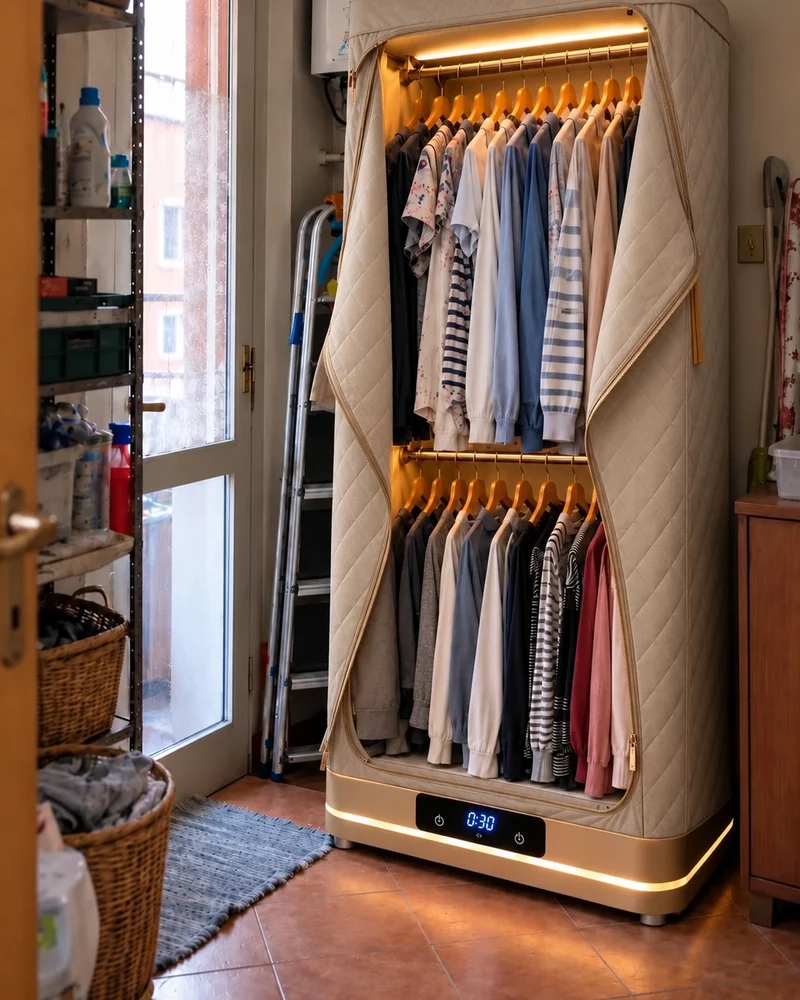
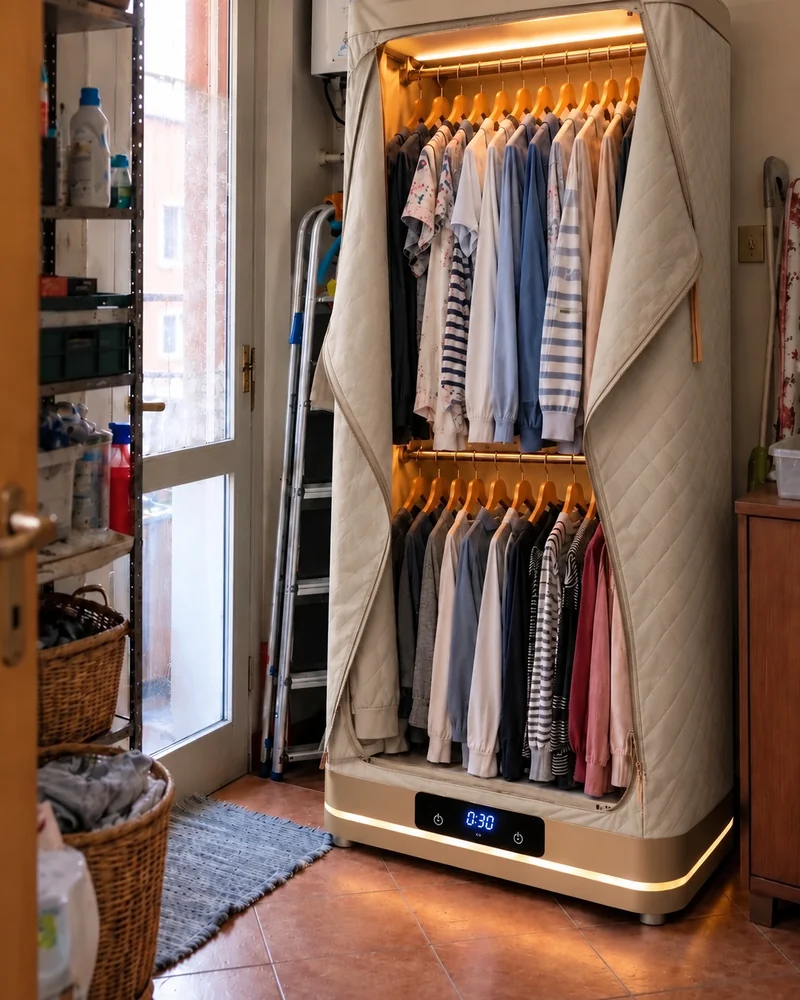
NUVARA e SALVEA: foto rifatte senza zoom, hero non piu' ritagliata
ChatGPT aveva rigenerato le scene ingrandendo il prodotto, che usciva dal
bordo: rifatte tutte e sedici con l'inquadratura bloccata su quella di ONYXA.
La hero e' il file quadrato dell'utente e ora e' 1000x1000, senza ritaglio;
le misure dichiarate negli <img> seguono il file (le miniature della
thank-you restano 88x88).

diff --git a/it/nuvara/landing.html b/it/nuvara/landing.html
@@ -61,7 +61,7 @@
  "@context": "https://schema.org",
  "@type": "Product",
  "name": "NUVARA™",
- "image": "https://nexofind.com/assets/img/products/nuvara/hero.webp?v=c3f60a7b",
+ "image": "https://nexofind.com/assets/img/products/nuvara/hero.webp?v=4fa03127",
  "description": "Asciuga, stira e igienizza il tuo bucato in soli 30 minuti. Dimentica le ore passate a stirare e goditi capi asciutti, stirati e subito pronti da indossare",
  "brand": {
   "@type": "Brand",
@@ -105,7 +105,7 @@ window.SITE_CONFIG = {
       </h1>
       <p class="trim-subtitle"><b>NUVARA</b> asciuga, stira e igienizza <b>fino a 30 kg di bucato in 30 minuti</b>, consumando solo 0,35 € di corrente per ogni ciclo.</p>
       <div class="trim-hero__image mobile-only">
-        <img decoding="async" src="/assets/img/products/nuvara/hero.webp?v=c3f60a7b" alt="NUVARA™ — ASCIUGATRICE PORTATILE 3 IN 1" width="800" height="1000" fetchpriority="high">
+        <img decoding="async" src="/assets/img/products/nuvara/hero.webp?v=4fa03127" alt="NUVARA™ — ASCIUGATRICE PORTATILE 3 IN 1" width="1000" height="1000" fetchpriority="high">
       </div>
       <div class="c4x-price-box">
         <div class="c4x-price-top">
@@ -181,7 +181,7 @@ window.SITE_CONFIG = {
       <a class="trim-cta" href="#FORM">COMPLETA ORDINE</a>
     </div>
     <div class="trim-hero__image desktop-only">
-      <img decoding="async" src="/assets/img/products/nuvara/hero.webp?v=c3f60a7b" alt="NUVARA™ — ASCIUGATRICE PORTATILE 3 IN 1" width="800" height="1000" fetchpriority="high">
+      <img decoding="async" src="/assets/img/products/nuvara/hero.webp?v=4fa03127" alt="NUVARA™ — ASCIUGATRICE PORTATILE 3 IN 1" width="1000" height="1000" fetchpriority="high">
     </div>
   </div>
 </section>
@@ -276,7 +276,7 @@ window.SITE_CONFIG = {
     </div>
     <div class="t77bx-media">
       <div class="t77bx-frame">
-        <img decoding="async" loading="lazy" src="/assets/img/products/nuvara/meccanismo.webp?v=d5f65012" alt="Sezione della camera chiusa con l&#x27;aria calda che circola tutto intorno ai capi appesi" width="1000" height="1000">
+        <img decoding="async" loading="lazy" src="/assets/img/products/nuvara/meccanismo.webp?v=3b426a2e" alt="Sezione della camera chiusa con l&#x27;aria calda che circola tutto intorno ai capi appesi" width="1000" height="1000">
         <span class="t77bx-chip">⚙ Vortex360™</span>
       </div>
     </div>
@@ -313,7 +313,7 @@ window.SITE_CONFIG = {
     <div class="t77bn-rows">
       <div class="t77bn-row">
         <div class="t77bn-media">
-          <img decoding="async" loading="lazy" src="/assets/img/products/nuvara/compatta.webp?v=94469f11" alt="Asciuga, stira e igienizza" width="1000" height="1000">
+          <img decoding="async" loading="lazy" src="/assets/img/products/nuvara/compatta.webp?v=6de8720a" alt="Asciuga, stira e igienizza" width="1000" height="1000">
         </div>
         <div class="t77bn-c">
           <div class="t77bn-ic">👕</div>
@@ -323,7 +323,7 @@ window.SITE_CONFIG = {
       </div>
       <div class="t77bn-row t77bn-row--rev">
         <div class="t77bn-media">
-          <img decoding="async" loading="lazy" src="/assets/img/products/nuvara/benefit1-v2.webp?v=5caa862c" alt="Semplice da usare" width="1000" height="1000">
+          <img decoding="async" loading="lazy" src="/assets/img/products/nuvara/benefit1-v2.webp?v=71873706" alt="Semplice da usare" width="1000" height="1000">
         </div>
         <div class="t77bn-c">
           <div class="t77bn-ic">🎛</div>
@@ -333,7 +333,7 @@ window.SITE_CONFIG = {
       </div>
       <div class="t77bn-row">
         <div class="t77bn-media">
-          <img decoding="async" loading="lazy" src="/assets/img/products/nuvara/benefit2.webp?v=34ec8765" alt="Compatta e facile da riporre" width="1000" height="1000">
+          <img decoding="async" loading="lazy" src="/assets/img/products/nuvara/benefit2.webp?v=b5e992c0" alt="Compatta e facile da riporre" width="1000" height="1000">
         </div>
         <div class="t77bn-c">
           <div class="t77bn-ic">🧳</div>
@@ -343,7 +343,7 @@ window.SITE_CONFIG = {
       </div>
       <div class="t77bn-row t77bn-row--rev">
         <div class="t77bn-media">
-          <img decoding="async" loading="lazy" src="/assets/img/products/nuvara/benefit3.webp?v=20c256d3" alt="Efficiente e sicura" width="800" height="1000">
+          <img decoding="async" loading="lazy" src="/assets/img/products/nuvara/benefit3.webp?v=f957f253" alt="Efficiente e sicura" width="800" height="1000">
         </div>
         <div class="t77bn-c">
           <div class="t77bn-ic">⚡</div>
@@ -366,7 +366,7 @@ window.SITE_CONFIG = {
     <div class="reviews-grid">
       <div class="review-card">
         <div class="review-image">
-          <img decoding="async" loading="lazy" src="/assets/img/products/nuvara/rw1.webp?v=fe54150b" alt="Davide R." width="800" height="1000">
+          <img decoding="async" loading="lazy" src="/assets/img/products/nuvara/rw1.webp?v=d53531f7" alt="Davide R." width="800" height="1000">
         </div>
         <div class="review-content">
           <div class="review-stars">★★★★★</div>
@@ -377,7 +377,7 @@ window.SITE_CONFIG = {
       </div>
       <div class="review-card">
         <div class="review-image">
-          <img decoding="async" loading="lazy" src="/assets/img/products/nuvara/rw2.webp?v=f5dd2773" alt="Ilaria M." width="800" height="1000">
+          <img decoding="async" loading="lazy" src="/assets/img/products/nuvara/rw2.webp?v=1501a2e3" alt="Ilaria M." width="800" height="1000">
         </div>
         <div class="review-content">
           <div class="review-stars">★★★★★</div>
@@ -388,7 +388,7 @@ window.SITE_CONFIG = {
       </div>
       <div class="review-card">
         <div class="review-image">
-          <img decoding="async" loading="lazy" src="/assets/img/products/nuvara/rw3.webp?v=3cc7e968" alt="Serena P." width="800" height="1000">
+          <img decoding="async" loading="lazy" src="/assets/img/products/nuvara/rw3.webp?v=27dea48e" alt="Serena P." width="800" height="1000">
         </div>
         <div class="review-content">
           <div class="review-stars">★★★★★</div>

diff --git a/it/salvea/landing.html b/it/salvea/landing.html
@@ -61,7 +61,7 @@
  "@context": "https://schema.org",
  "@type": "Product",
  "name": "SALVEA™",
- "image": "https://nexofind.com/assets/img/products/salvea/hero.webp?v=fd504b73",
+ "image": "https://nexofind.com/assets/img/products/salvea/hero.webp?v=a59da6a7",
  "description": "Asciuga, stira e igienizza il tuo bucato in soli 30 minuti. Dimentica le ore passate a stirare e goditi capi asciutti, stirati e subito pronti da indossare",
  "brand": {
   "@type": "Brand",
@@ -105,7 +105,7 @@ window.SITE_CONFIG = {
       </h1>
       <p class="trim-subtitle"><b>SALVEA</b> asciuga, stira e igienizza <b>fino a 30 kg di bucato in 30 minuti</b>, consumando solo 0,35 € di corrente per ogni ciclo.</p>
       <div class="trim-hero__image mobile-only">
-        <img decoding="async" src="/assets/img/products/salvea/hero.webp?v=fd504b73" alt="SALVEA™ — ASCIUGATRICE PORTATILE 3 IN 1" width="800" height="1000" fetchpriority="high">
+        <img decoding="async" src="/assets/img/products/salvea/hero.webp?v=a59da6a7" alt="SALVEA™ — ASCIUGATRICE PORTATILE 3 IN 1" width="1000" height="1000" fetchpriority="high">
       </div>
       <div class="c4x-price-box">
         <div class="c4x-price-top">
@@ -181,7 +181,7 @@ window.SITE_CONFIG = {
       <a class="trim-cta" href="#FORM">COMPLETA ORDINE</a>
     </div>
     <div class="trim-hero__image desktop-only">
-      <img decoding="async" src="/assets/img/products/salvea/hero.webp?v=fd504b73" alt="SALVEA™ — ASCIUGATRICE PORTATILE 3 IN 1" width="800" height="1000" fetchpriority="high">
+      <img decoding="async" src="/assets/img/products/salvea/hero.webp?v=a59da6a7" alt="SALVEA™ — ASCIUGATRICE PORTATILE 3 IN 1" width="1000" height="1000" fetchpriority="high">
     </div>
   </div>
 </section>
@@ -276,7 +276,7 @@ window.SITE_CONFIG = {
     </div>
     <div class="t77bx-media">
       <div class="t77bx-frame">
-        <img decoding="async" loading="lazy" src="/assets/img/products/salvea/meccanismo.webp?v=5d9c8556" alt="Sezione della camera chiusa con l&#x27;aria calda che circola tutto intorno ai capi appesi" width="1000" height="1000">
+        <img decoding="async" loading="lazy" src="/assets/img/products/salvea/meccanismo.webp?v=fa6cc3cf" alt="Sezione della camera chiusa con l&#x27;aria calda che circola tutto intorno ai capi appesi" width="1000" height="1000">
         <span class="t77bx-chip">⚙ Vortex360™</span>
       </div>
     </div>
@@ -313,7 +313,7 @@ window.SITE_CONFIG = {
     <div class="t77bn-rows">
       <div class="t77bn-row">
         <div class="t77bn-media">
-          <img decoding="async" loading="lazy" src="/assets/img/products/salvea/compatta.webp?v=45fc6342" alt="Asciuga, stira e igienizza" width="1000" height="1000">
+          <img decoding="async" loading="lazy" src="/assets/img/products/salvea/compatta.webp?v=7ceb8d3c" alt="Asciuga, stira e igienizza" width="1000" height="1000">
         </div>
         <div class="t77bn-c">
           <div class="t77bn-ic">👕</div>
@@ -323,7 +323,7 @@ window.SITE_CONFIG = {
       </div>
       <div class="t77bn-row t77bn-row--rev">
         <div class="t77bn-media">
-          <img decoding="async" loading="lazy" src="/assets/img/products/salvea/benefit1-v2.webp?v=88cfe257" alt="Semplice da usare" width="1000" height="1000">
+          <img decoding="async" loading="lazy" src="/assets/img/products/salvea/benefit1-v2.webp?v=a560fdb4" alt="Semplice da usare" width="1000" height="1000">
         </div>
         <div class="t77bn-c">
           <div class="t77bn-ic">🎛</div>
@@ -333,7 +333,7 @@ window.SITE_CONFIG = {
       </div>
       <div class="t77bn-row">
         <div class="t77bn-media">
-          <img decoding="async" loading="lazy" src="/assets/img/products/salvea/benefit2.webp?v=43347b35" alt="Compatta e facile da riporre" width="1000" height="1000">
+          <img decoding="async" loading="lazy" src="/assets/img/products/salvea/benefit2.webp?v=b16a5585" alt="Compatta e facile da riporre" width="1000" height="1000">
         </div>
         <div class="t77bn-c">
           <div class="t77bn-ic">🧳</div>
@@ -343,7 +343,7 @@ window.SITE_CONFIG = {
       </div>
       <div class="t77bn-row t77bn-row--rev">
         <div class="t77bn-media">
-          <img decoding="async" loading="lazy" src="/assets/img/products/salvea/benefit3.webp?v=2280157a" alt="Efficiente e sicura" width="800" height="1000">
+          <img decoding="async" loading="lazy" src="/assets/img/products/salvea/benefit3.webp?v=60dea8e4" alt="Efficiente e sicura" width="800" height="1000">
         </div>
         <div class="t77bn-c">
           <div class="t77bn-ic">⚡</div>
@@ -366,7 +366,7 @@ window.SITE_CONFIG = {
     <div class="reviews-grid">
       <div class="review-card">
         <div class="review-image">
-          <img decoding="async" loading="lazy" src="/assets/img/products/salvea/rw1.webp?v=dff0cb9c" alt="Davide R." width="800" height="1000">
+          <img decoding="async" loading="lazy" src="/assets/img/products/salvea/rw1.webp?v=3ed8f049" alt="Davide R." width="800" height="1000">
         </div>
         <div class="review-content">
           <div class="review-stars">★★★★★</div>
@@ -377,7 +377,7 @@ window.SITE_CONFIG = {
       </div>
       <div class="review-card">
         <div class="review-image">
-          <img decoding="async" loading="lazy" src="/assets/img/products/salvea/rw2.webp?v=5becdb2c" alt="Ilaria M." width="800" height="1000">
+          <img decoding="async" loading="lazy" src="/assets/img/products/salvea/rw2.webp?v=3c9458be" alt="Ilaria M." width="800" height="1000">
         </div>
         <div class="review-content">
           <div class="review-stars">★★★★★</div>
@@ -388,7 +388,7 @@ window.SITE_CONFIG = {
       </div>
       <div class="review-card">
         <div class="review-image">
-          <img decoding="async" loading="lazy" src="/assets/img/products/salvea/rw3.webp?v=4828dd7f" alt="Serena P." width="800" height="1000">
+          <img decoding="async" loading="lazy" src="/assets/img/products/salvea/rw3.webp?v=69186be0" alt="Serena P." width="800" height="1000">
         </div>
         <div class="review-content">
           <div class="review-stars">★★★★★</div>

diff --git a/it/nuvara/thank-you.html b/it/nuvara/thank-you.html
@@ -102,7 +102,7 @@ window.SITE_CONFIG = {
   <p class="ty-subhead">Perfetto — il tuo ordine è in elaborazione. Manca solo <strong>un ultimo passaggio</strong> per completarlo e far partire la spedizione.</p>
 
   <div class="ty-product">
-    <img src="/assets/img/products/nuvara/hero.webp?v=c3f60a7b" alt="Kit completo NUVARA™" width="88" height="88">
+    <img src="/assets/img/products/nuvara/hero.webp?v=4fa03127" alt="Kit completo NUVARA™" width="88" height="88">
     <div>
       <div class="ty-product__name">NUVARA™ — asciugatrice portatile 3 in 1</div>
       <div class="ty-product__meta">Kit completo · Pagamento alla consegna</div>

diff --git a/it/salvea/thank-you.html b/it/salvea/thank-you.html
@@ -102,7 +102,7 @@ window.SITE_CONFIG = {
   <p class="ty-subhead">Perfetto — il tuo ordine è in elaborazione. Manca solo <strong>un ultimo passaggio</strong> per completarlo e far partire la spedizione.</p>
 
   <div class="ty-product">
-    <img src="/assets/img/products/salvea/hero.webp?v=fd504b73" alt="Kit completo SALVEA™" width="88" height="88">
+    <img src="/assets/img/products/salvea/hero.webp?v=a59da6a7" alt="Kit completo SALVEA™" width="88" height="88">
     <div>
       <div class="ty-product__name">SALVEA™ — asciugatrice portatile 3 in 1</div>
       <div class="ty-product__meta">Kit completo · Pagamento alla consegna</div>
